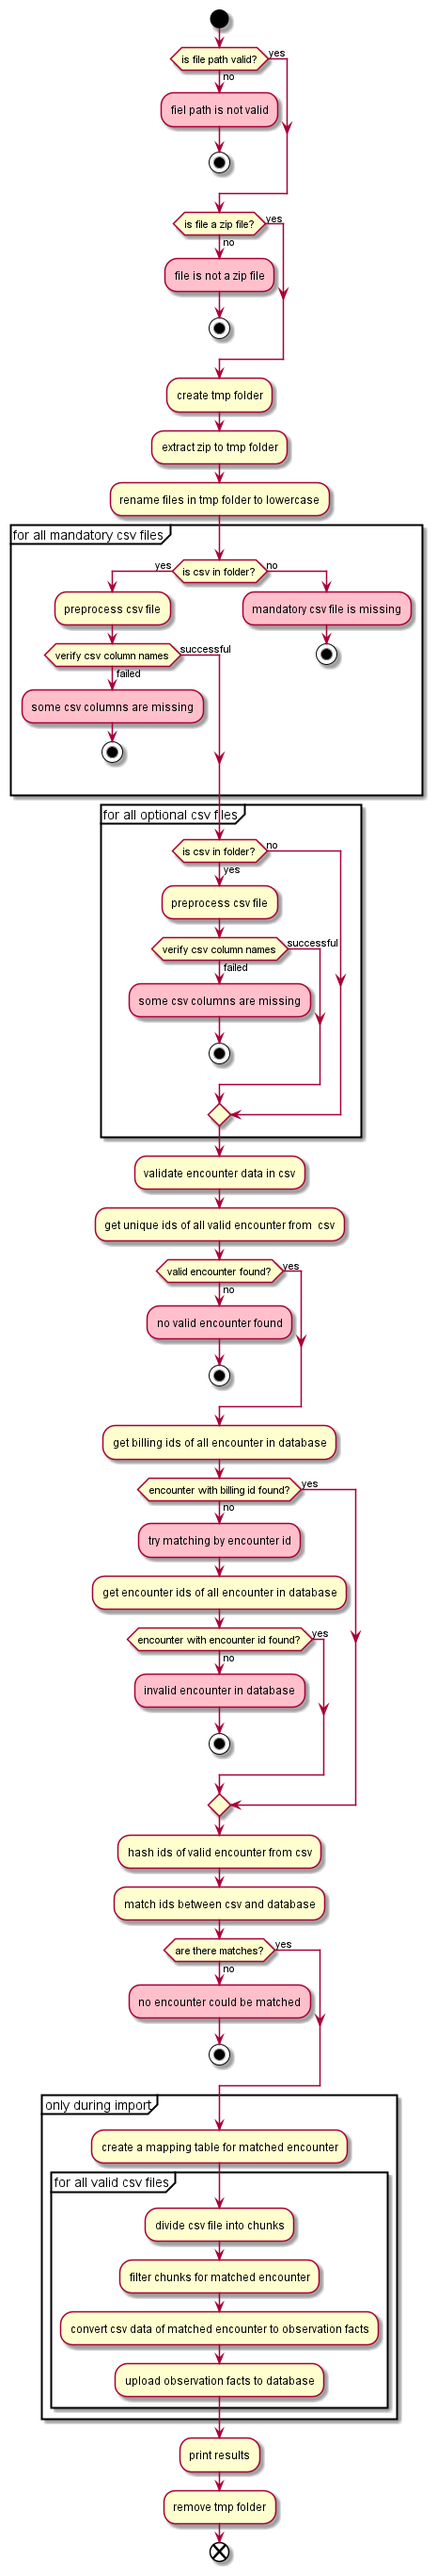
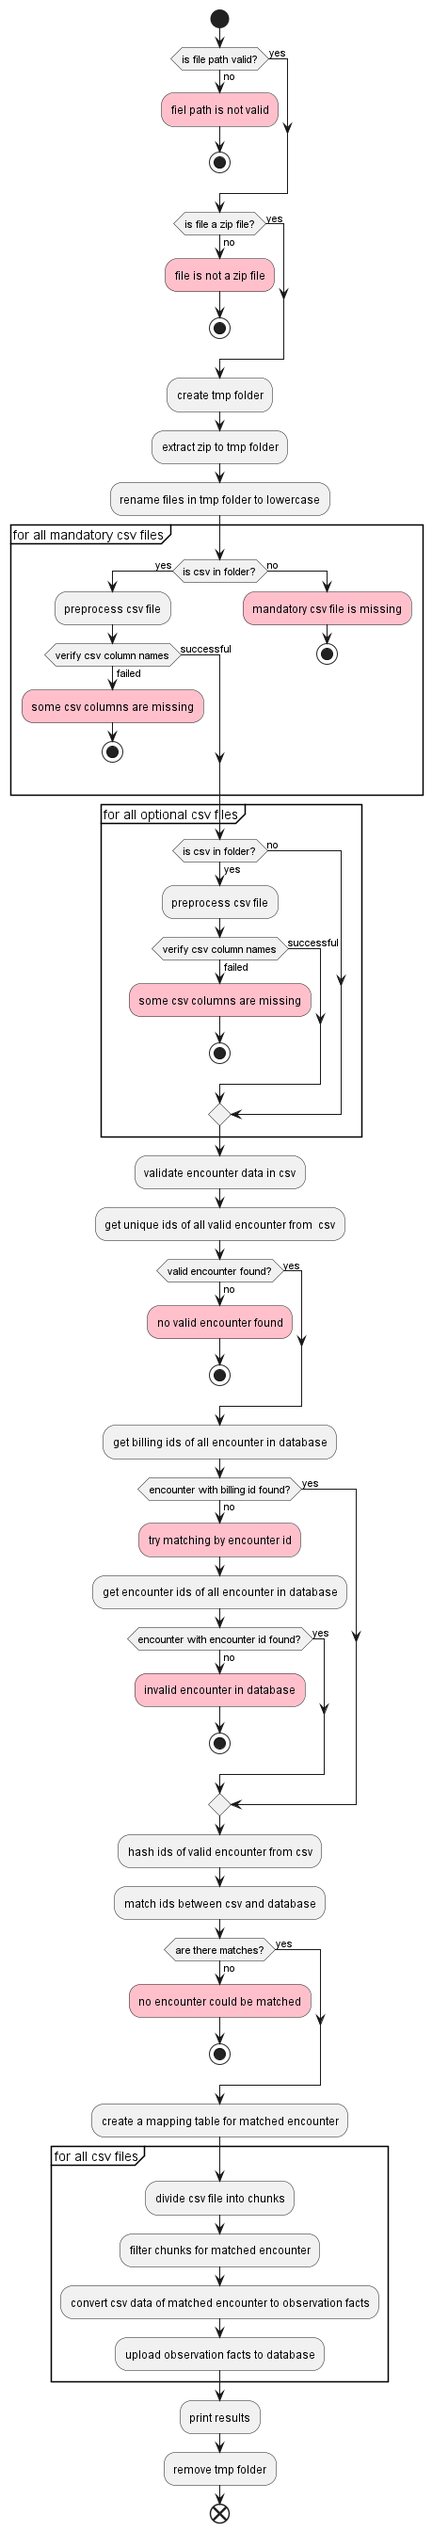
updated diagram and README.md for merged verification and import

Changed region(s): [[0.0, 0.0, 1.0, 0.9996]]

diff --git a/README.md b/README.md
@@ -8,8 +8,7 @@ The script is intended to import csv files with inpatient treatment data accordi
 * the semicolon `;` is used as a separator for data fields
 * the comma `,` is used as a separator for decimals
 
-The import process is divided into two steps: A verification of the files (`verify_file`) to be imported and the file import itself (`import_file`). The script can only be executed with one process at a time. The processes
-look like following:
+The processes look like following:
 
 ![sequence diagram](./docs/activity.png)
 
@@ -77,9 +76,9 @@ The script is only suitable for usage on the AKTIN DWH V1.4 or higher. For the i
 
 ### Local Usage
 
-It is also possible to run the script manually. For this, the respective import process (`verify_file` or `import_file`) and the path to the zip file to be uploaded must be passed to the script as input arguments:
+It is also possible to run the script manually. For this, the path to the zip file to be uploaded must be passed to the script as an input argument:
 
-`python p21import.py {import process} {path to the zip file}`
+`python p21import.py {path to the zip file}`
 
 When executing the script via the AKTIN DWH, some information is transmitted as environment variables. For local execution the following variables must be set accordingly:
 
